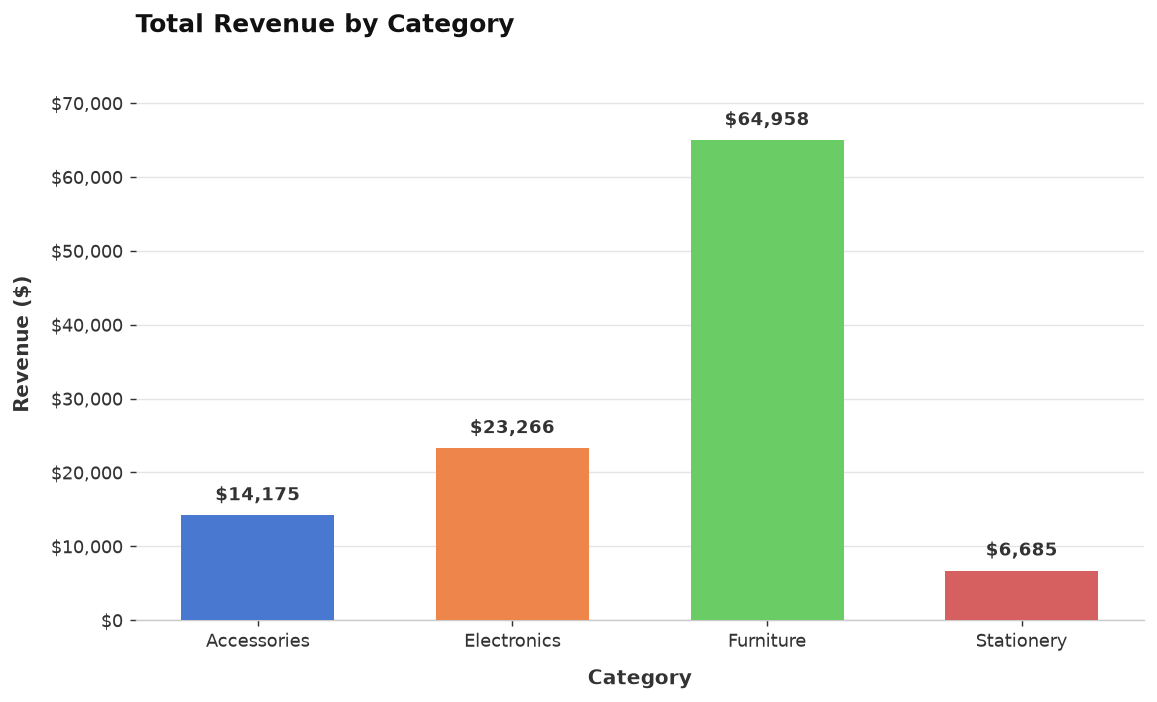
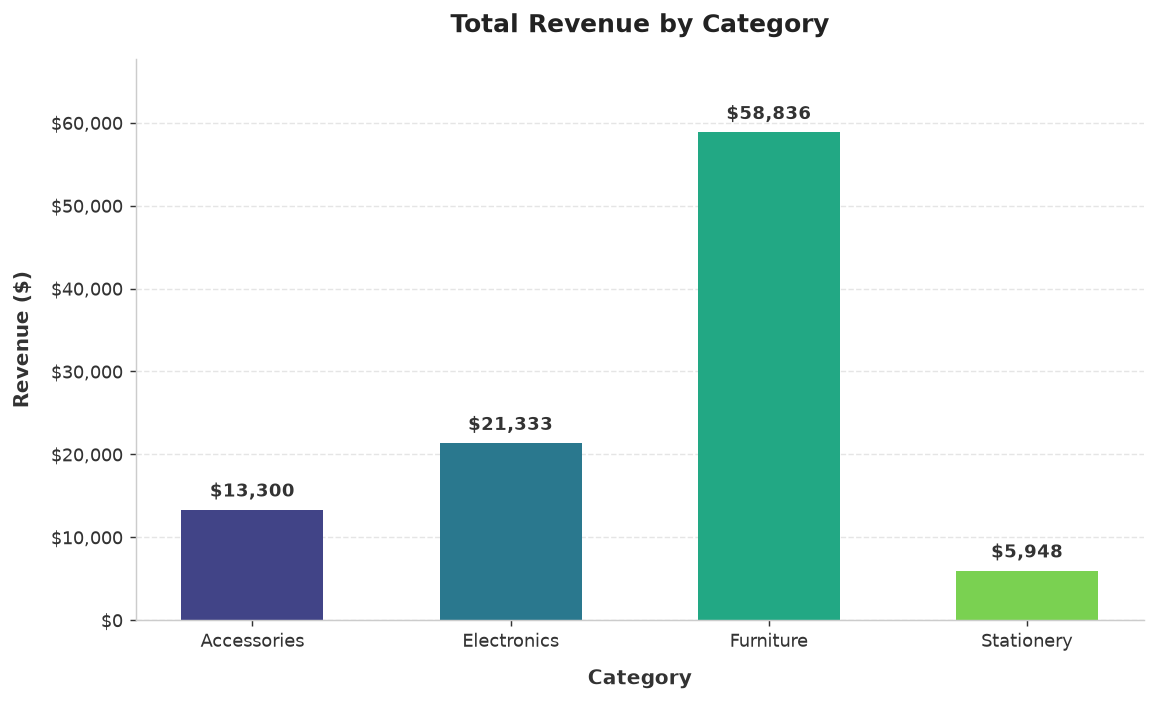
Add conversation memory for context-aware follow-up questions

diff --git a/backend/app/agent.py b/backend/app/agent.py
@@ -2,6 +2,7 @@ import pandas as pd
 from google import genai
 from app.config import config
 from app.api_utils import call_with_retry
+
 client = genai.Client(api_key=config.GEMINI_API_KEY)
 
 
@@ -9,17 +10,31 @@ def load_data(csv_path: str) -> pd.DataFrame:
     return pd.read_csv(csv_path)
 
 
-def build_prompt(question: str, df: pd.DataFrame, quality_report=None) -> str:
+def build_prompt(question: str, df: pd.DataFrame, quality_report=None, memory=None) -> str:
     columns_info = "\n".join([f"- {col} ({df[col].dtype})" for col in df.columns])
     sample_rows = df.head(3).to_string()
     quality_text = quality_report.to_prompt_text() if quality_report else "Not checked."
+
+    numeric_ranges = []
+    for col in df.select_dtypes(include="number").columns:
+        col_min, col_max = df[col].min(), df[col].max()
+        numeric_ranges.append(f"- {col}: range {col_min} to {col_max}")
+    ranges_text = "\n".join(numeric_ranges) if numeric_ranges else "No numeric columns."
+
+    memory_text = memory.to_prompt_text() if memory else "No previous questions in this conversation."
 
     prompt = f"""You are a data analyst. You have a Pandas DataFrame called `df` with these columns:
 
 {columns_info}
 
+Numeric column value ranges (use this to infer scale, e.g. whether a percentage column is 0-1 or 0-100):
+{ranges_text}
+
 Data quality issues found in this dataset:
 {quality_text}
+
+Previous questions and answers in this conversation (use for context on follow-up questions like "now show that by region"):
+{memory_text}
 
 Sample rows:
 {sample_rows}
@@ -29,17 +44,19 @@ Write Python Pandas code to answer this question:
 
 Rules:
 - Only use the variable name `df`.
--`pd` (pandas) is already available — never write `import pandas` or any import statement.
+- `pd` (pandas) is already available — never write `import pandas` or any import statement.
 - Handle missing values (NaN) defensively — use .dropna() on relevant columns before aggregating.
 - Never assume a column is 100% clean, even if it looks numeric.
+- For percentage-like columns, check the value range above before dividing.
+- If this question refers to a previous question (e.g. "now by region", "what about last month"), use the conversation history above to understand what it's building on.
 - Store the final answer in a variable called `result`.
 - Return ONLY executable Python code, no explanations, no markdown fences.
 """
     return prompt
 
 
-def generate_code(question: str, df: pd.DataFrame, quality_report=None) -> str:
-    prompt = build_prompt(question, df, quality_report)
+def generate_code(question: str, df: pd.DataFrame, quality_report=None, memory=None) -> str:
+    prompt = build_prompt(question, df, quality_report, memory)
     response = call_with_retry(lambda: client.models.generate_content(
         model="gemini-flash-lite-latest",
         contents=prompt
@@ -47,22 +64,19 @@ def generate_code(question: str, df: pd.DataFrame, quality_report=None) -> str:
     code = response.text.strip()
     code = code.replace("```python", "").replace("```", "").strip()
     return code
-def generate_code_with_retry(question: str, df: pd.DataFrame, quality_report=None, max_attempts: int = 3):
-    """
-    Generates code, executes it, and if it fails, feeds the error back to
-    the model to self-correct. Retries up to max_attempts times.
-    Returns (result, final_code, attempt_history).
-    """
+
+
+def generate_code_with_retry(question: str, df: pd.DataFrame, quality_report=None, memory=None, max_attempts: int = 3):
     from app.executor import safe_execute, ExecutionError
 
-    prompt = build_prompt(question, df, quality_report)
+    prompt = build_prompt(question, df, quality_report, memory)
     attempt_history = []
 
     for attempt in range(1, max_attempts + 1):
         response = call_with_retry(lambda: client.models.generate_content(
-        model="gemini-flash-lite-latest",
-        contents=prompt
-    ))
+            model="gemini-flash-lite-latest",
+            contents=prompt
+        ))
         code = response.text.strip().replace("```python", "").replace("```", "").strip()
 
         try:
@@ -71,13 +85,8 @@ def generate_code_with_retry(question: str, df: pd.DataFrame, quality_report=Non
             return result, code, attempt_history
         except ExecutionError as e:
             attempt_history.append({"attempt": attempt, "code": code, "status": "failed", "error": str(e)})
-
             if attempt == max_attempts:
-                raise ExecutionError(
-                    f"Failed after {max_attempts} attempts. Last error: {e}"
-                )
-
-            # Feed the error back so the model can fix itself
+                raise ExecutionError(f"Failed after {max_attempts} attempts. Last error: {e}")
             prompt = f"""{prompt}
 
 Your previous attempt produced this code:

diff --git a/backend/test_agent.py b/backend/test_agent.py
@@ -1,54 +1,35 @@
 from app.preprocessor import auto_clean, apply_user_decisions, collect_decisions_cli
 from app.agent import generate_code_with_retry
+from app.memory import ConversationMemory
 from app.visualizer import render_chart
 from app.executor import ExecutionError
 import time
-# Load and clean data
+
 df, quality_report, pending = auto_clean("../data/messy_sales.csv")
 decisions = collect_decisions_cli(pending)
 df = apply_user_decisions(df, pending, decisions)
 
-# Questions covering different chart types
-questions = [
+memory = ConversationMemory()
 
-    # Bar chart candidates — ranked category comparisons
+conversation = [
     "What is the total revenue by category?",
-    "Which product had the highest total quantity sold?",
-    "What is the total revenue by region?",
-
-    # Line chart candidates — trends over time
-    "What is the trend of total revenue by month?",
-    "How did average discount percentage change month over month?",
-
-    # Pie chart candidates — parts of a whole, few categories
-    "What percentage of total revenue comes from each customer segment?",
-    "What is the proportion of orders by region?",
-
-    # Histogram candidates — distribution of one numeric column
-    "What is the distribution of unit prices across all orders?",
-    "What is the distribution of discount percentages?",
-
-    # Heatmap candidates — matrix across two categorical dimensions
-    "What is the average revenue for each category across each region?",
-    "What is the correlation between quantity, unit_price, and discount_pct?",
-
-    # Scatter candidates — relationship between two numeric variables
-    "What is the relationship between quantity and unit_price for each order?",
-    "How does discount percentage relate to net revenue per order?",
-
-    # Edge case — should trigger "none" (single number)
-    "What is the total revenue across all orders?",
-    "What is the average discount percentage overall?",
+    "Now show that by region instead.",
+    "Which one of those had the lowest value?",
+    "What will be the value if we multiply the answer from previous question by 2"
 ]
 
-for i, question in enumerate(questions, start=1):
+for i, question in enumerate(conversation, start=1):
     print("=" * 60)
-    print(f"[{i}] {question}")
+    print("Question:", question)
+
     try:
-        result, code, history = generate_code_with_retry(question, df, quality_report)
-        print("Result:\n", result)
+        result, code, history = generate_code_with_retry(question, df, quality_report, memory)
+        print("\nResult:\n", result)
+        memory.add(question, str(result)[:500])
+
         fig, chart_code = render_chart(result, question, save_path=f"chart_{i}.png")
         print("Chart saved:", f"chart_{i}.png" if fig else "No chart (or failed)")
     except ExecutionError as e:
         print("Failed:", e)
+
     time.sleep(4)

diff --git a/backend/app/memory.py b/backend/app/memory.py
@@ -1,0 +1,22 @@
+class ConversationMemory:
+    """Stores recent Q&A pairs so follow-up questions have context."""
+
+    def __init__(self, max_history: int = 5):
+        self.history = []
+        self.max_history = max_history
+
+    def add(self, question: str, result_summary: str):
+        self.history.append({"question": question, "result": result_summary})
+        if len(self.history) > self.max_history:
+            self.history.pop(0)
+
+    def to_prompt_text(self) -> str:
+        if not self.history:
+            return "No previous questions in this conversation."
+        lines = []
+        for turn in self.history:
+            lines.append(f"Q: {turn['question']}\nA: {turn['result']}")
+        return "\n\n".join(lines)
+
+    def clear(self):
+        self.history = []
